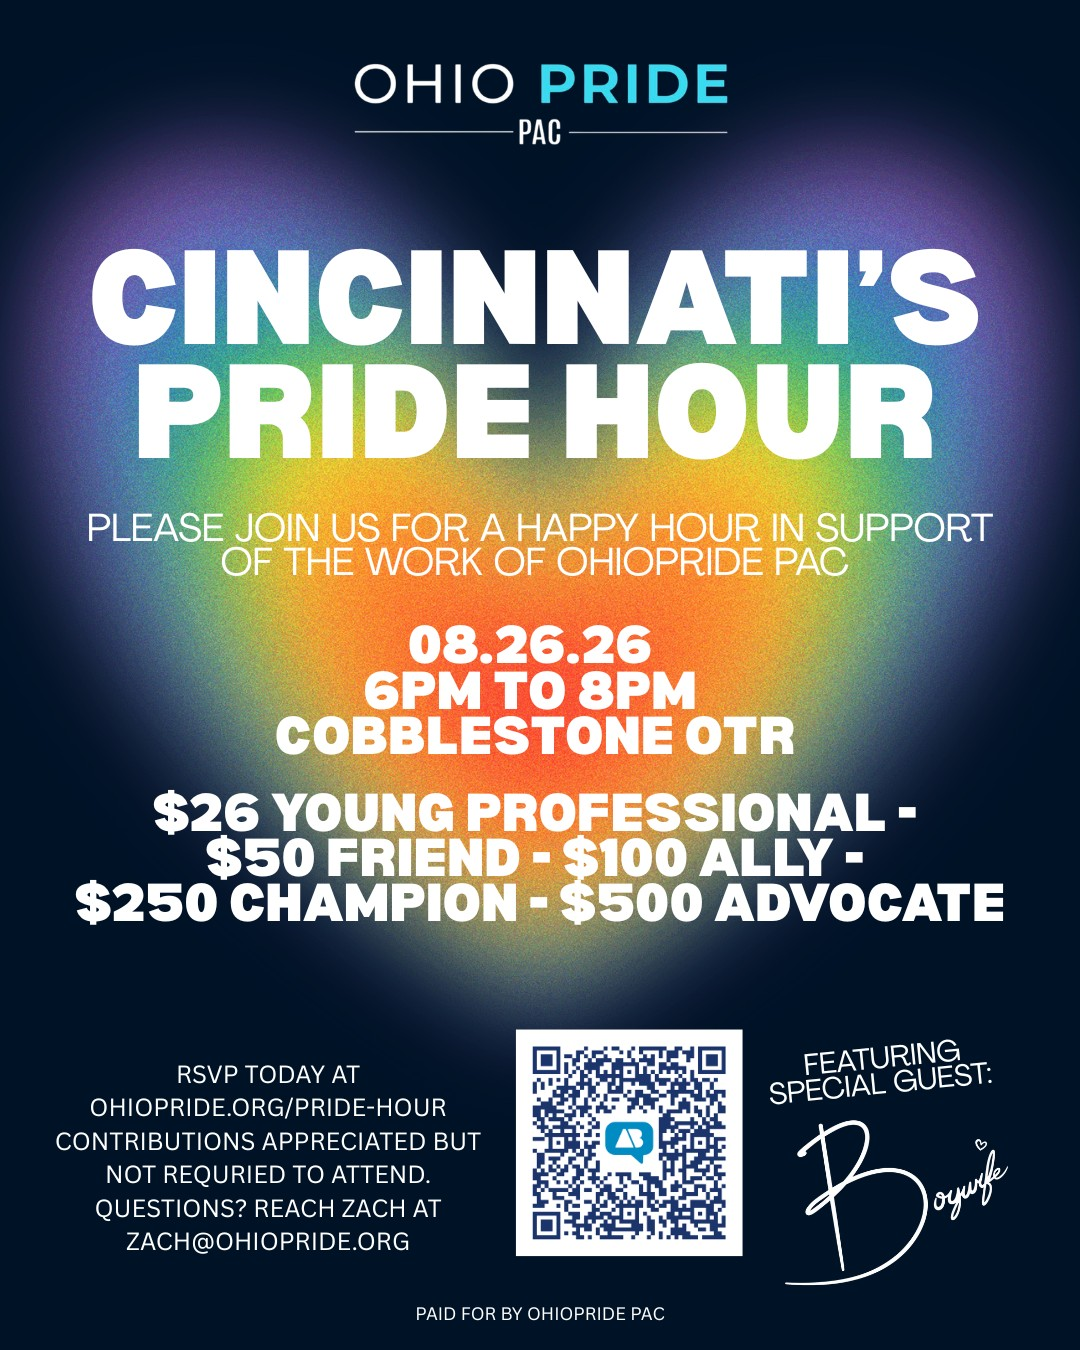
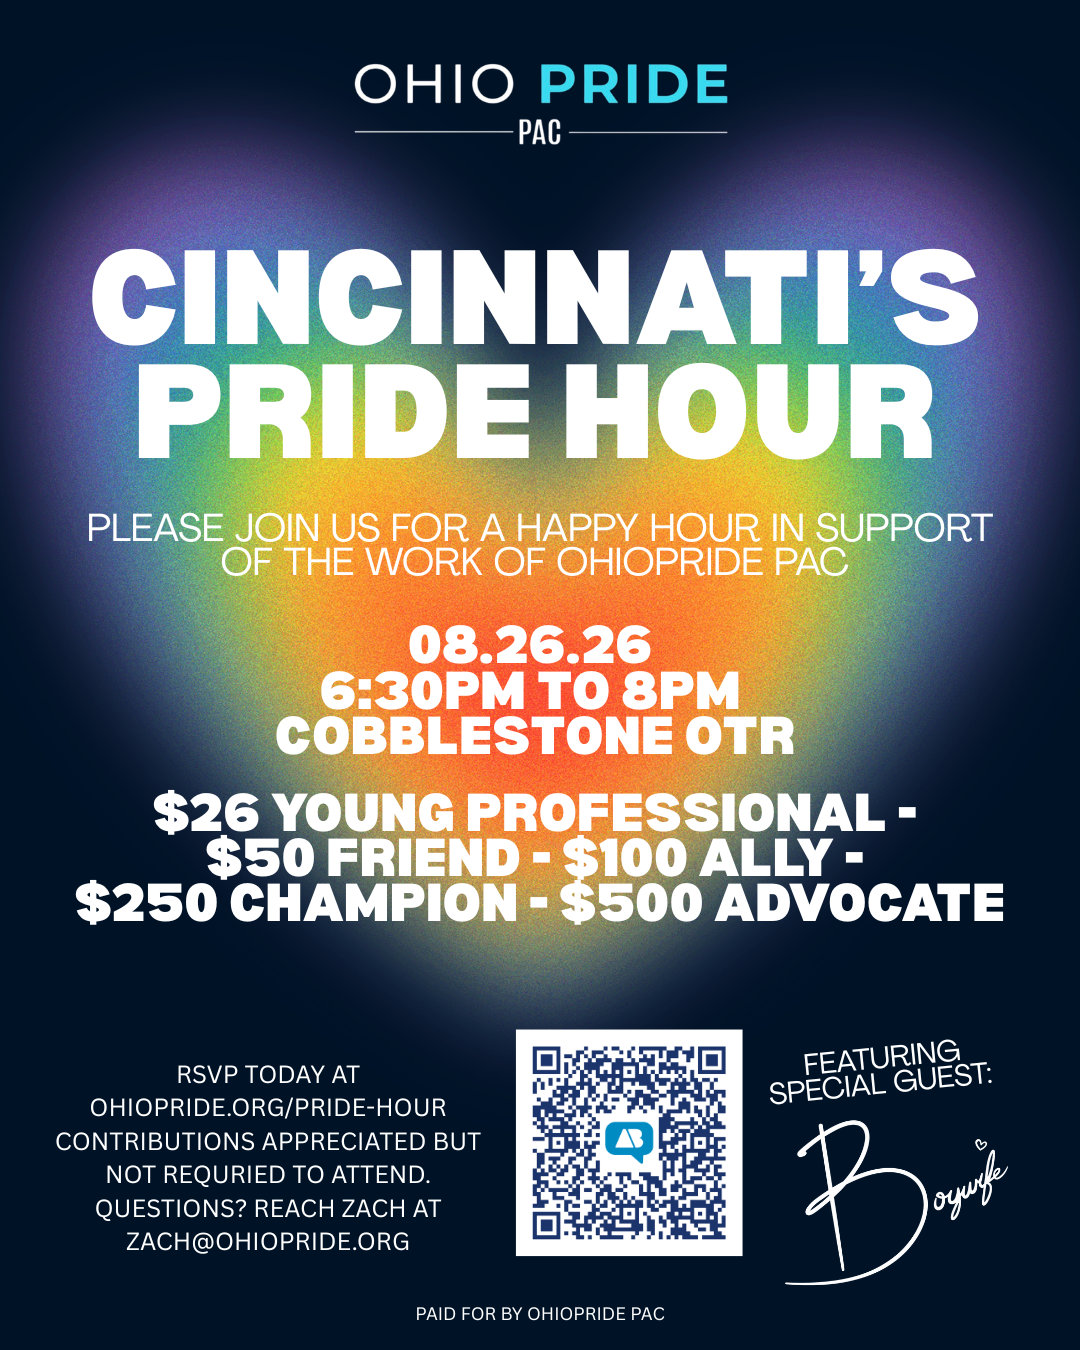
Cincinnati's Pride Hour starts at 6:30, and the flyer says so
The new invitation graphic moves the start from 6:00 to 6:30 PM. The
image is the only thing that changed on the flyer — everything else
(date, venue, giving levels, QR code, Boywife) is identical — but the
site said 6:00 in eight places, so the graphic and the copy around it
now disagreed.

Swapped the flyer and corrected the time everywhere it is stated:

- lib/seo.mjs is the source for the head block, so the description,
  og/twitter description, image alt and the Event JSON-LD startDate all
  move together; `npm run seo:build` rewrote /pride-hour's block.
- /pride-hour's hero note, figure alt, and the Time fact.
- /events' Cincinnati card (when line and alt).
- A migration for public.events: the 20260806240000 seed inserts with
  `on conflict do nothing` and cannot correct a row that already exists,
  so the new start time is stated as an update.

The end time (8:00 PM) and the Cleveland event are untouched.

Claude-Session: https://claude.ai/code/session_015j7yxkqiEpps74ZUqFgDEv

diff --git a/public/pride-hour.html b/public/pride-hour.html
@@ -6,7 +6,7 @@
 
     <!-- seo:start — generated by `npm run seo:build` from lib/seo.mjs. Do not edit. -->
     <title>Cincinnati's Pride Hour | Ohio Pride PAC</title>
-    <meta name="description" content="Join Ohio Pride PAC for a happy hour in support of our work. Wednesday, August 26, 2026, 6–8 PM at Cobblestone OTR in Cincinnati. RSVP today." />
+    <meta name="description" content="Join Ohio Pride PAC for a happy hour in support of our work. Wednesday, August 26, 2026, 6:30–8 PM at Cobblestone OTR in Cincinnati. RSVP today." />
     <link rel="canonical" href="https://www.ohiopride.org/pride-hour" />
     <meta name="robots" content="index, follow, max-image-preview:large, max-snippet:-1, max-video-preview:-1" />
     <meta name="theme-color" content="#152233" />
@@ -15,18 +15,18 @@
     <meta property="og:site_name" content="Ohio Pride PAC" />
     <meta property="og:locale" content="en_US" />
     <meta property="og:title" content="Cincinnati's Pride Hour | Ohio Pride PAC" />
-    <meta property="og:description" content="A happy hour in support of the work of Ohio Pride PAC. Wed, Aug 26, 2026 · 6–8 PM · Cobblestone OTR, Cincinnati. RSVP today." />
+    <meta property="og:description" content="A happy hour in support of the work of Ohio Pride PAC. Wed, Aug 26, 2026 · 6:30–8 PM · Cobblestone OTR, Cincinnati. RSVP today." />
     <meta property="og:url" content="https://www.ohiopride.org/pride-hour" />
     <meta property="og:image" content="https://www.ohiopride.org/assets/img/events/cincinnati-pride-hour.jpg" />
     <meta property="og:image:width" content="1200" />
     <meta property="og:image:height" content="630" />
-    <meta property="og:image:alt" content="Cincinnati's Pride Hour — a happy hour in support of Ohio Pride PAC, August 26, 2026 at Cobblestone OTR." />
+    <meta property="og:image:alt" content="Cincinnati's Pride Hour — a happy hour in support of Ohio Pride PAC, August 26, 2026, 6:30 to 8 PM at Cobblestone OTR." />
 
     <meta name="twitter:card" content="summary_large_image" />
     <meta name="twitter:title" content="Cincinnati's Pride Hour | Ohio Pride PAC" />
-    <meta name="twitter:description" content="A happy hour in support of the work of Ohio Pride PAC. Wed, Aug 26, 2026 · 6–8 PM · Cobblestone OTR, Cincinnati. RSVP today." />
+    <meta name="twitter:description" content="A happy hour in support of the work of Ohio Pride PAC. Wed, Aug 26, 2026 · 6:30–8 PM · Cobblestone OTR, Cincinnati. RSVP today." />
     <meta name="twitter:image" content="https://www.ohiopride.org/assets/img/events/cincinnati-pride-hour.jpg" />
-    <meta name="twitter:image:alt" content="Cincinnati's Pride Hour — a happy hour in support of Ohio Pride PAC, August 26, 2026 at Cobblestone OTR." />
+    <meta name="twitter:image:alt" content="Cincinnati's Pride Hour — a happy hour in support of Ohio Pride PAC, August 26, 2026, 6:30 to 8 PM at Cobblestone OTR." />
 
     <link rel="icon" href="/favicon.ico" sizes="any" />
     <link rel="icon" type="image/svg+xml" href="/assets/favicon/favicon.svg" />
@@ -39,11 +39,11 @@
       "@context": "https://schema.org",
       "@type": "Event",
       "name": "Cincinnati's Pride Hour",
-      "startDate": "2026-08-26T18:00:00-04:00",
+      "startDate": "2026-08-26T18:30:00-04:00",
       "endDate": "2026-08-26T20:00:00-04:00",
       "eventStatus": "https://schema.org/EventScheduled",
       "eventAttendanceMode": "https://schema.org/OfflineEventAttendanceMode",
-      "description": "Join Ohio Pride PAC for a happy hour in support of our work. Wednesday, August 26, 2026, 6–8 PM at Cobblestone OTR in Cincinnati. RSVP today.",
+      "description": "Join Ohio Pride PAC for a happy hour in support of our work. Wednesday, August 26, 2026, 6:30–8 PM at Cobblestone OTR in Cincinnati. RSVP today.",
       "url": "https://www.ohiopride.org/pride-hour",
       "image": "https://www.ohiopride.org/assets/img/events/cincinnati-pride-hour.jpg",
       "location": {
@@ -302,7 +302,7 @@
         <img class="feat-logo" src="/assets/img/events/boywife-logo.png" alt="DJ Boywife" width="1170" height="879">
     </div>
     <a class="btn-donate lg" href="https://secure.actblue.com/donate/26-Pride-hourcincy" target="_blank" rel="noopener">Donate &amp; RSVP &rarr;</a>
-    <p class="donate-note">Wednesday, August 26, 2026 &nbsp;·&nbsp; 6&ndash;8 PM &nbsp;·&nbsp; Cobblestone OTR</p>
+    <p class="donate-note">Wednesday, August 26, 2026 &nbsp;·&nbsp; 6:30&ndash;8 PM &nbsp;·&nbsp; Cobblestone OTR</p>
 </section>
 
 <!-- ===================== MAIN ===================== -->
@@ -312,7 +312,7 @@
             <!-- The invitation graphic -->
             <figure class="ph-figure">
                 <img src="/assets/img/events/cincinnati-pride-hour.jpg"
-                     alt="Cincinnati's Pride Hour — a happy hour in support of Ohio Pride PAC. August 26, 2026, 6 to 8 PM at Cobblestone OTR. Giving levels: $26 Young Professional, $50 Friend, $100 Ally, $250 Champion, $500 Advocate. Featuring special guest Boywife, with a QR code to RSVP.">
+                     alt="Cincinnati's Pride Hour — a happy hour in support of Ohio Pride PAC. August 26, 2026, 6:30 to 8 PM at Cobblestone OTR. Giving levels: $26 Young Professional, $50 Friend, $100 Ally, $250 Champion, $500 Advocate. Featuring special guest Boywife, with a QR code to RSVP.">
                 <figcaption>Paid for by Ohio Pride PAC</figcaption>
             </figure>
 
@@ -334,7 +334,7 @@
                         </span>
                         <div>
                             <div class="label">Time</div>
-                            <div class="value">6:00 &ndash; 8:00 PM</div>
+                            <div class="value">6:30 &ndash; 8:00 PM</div>
                         </div>
                     </div>
                     <div class="ph-fact">

diff --git a/public/events.html b/public/events.html
@@ -280,13 +280,13 @@
                   width="1080"
                   height="1350"
                   loading="lazy"
-                  alt="Cincinnati's Pride Hour, a happy hour in support of Ohio Pride PAC. Wednesday, August 26, 2026, 6:00 to 8:00 PM at Cobblestone OTR in Over-the-Rhine, Cincinnati. Giving levels: $26 Young Professional, $50 Friend, $100 Ally, $250 Champion, $500 Advocate."
+                  alt="Cincinnati's Pride Hour, a happy hour in support of Ohio Pride PAC. Wednesday, August 26, 2026, 6:30 to 8:00 PM at Cobblestone OTR in Over-the-Rhine, Cincinnati. Giving levels: $26 Young Professional, $50 Friend, $100 Ally, $250 Champion, $500 Advocate."
                 />
               </a>
               <div class="event-card-body">
                 <span class="event-card-city">Cincinnati</span>
                 <h2>Cincinnati's Pride Hour</h2>
-                <p class="event-card-when">Wednesday, August 26, 2026, 6:00 to 8:00 PM</p>
+                <p class="event-card-when">Wednesday, August 26, 2026, 6:30 to 8:00 PM</p>
                 <p class="event-card-where">Cobblestone OTR<br />Over-the-Rhine, Cincinnati</p>
                 <div class="event-card-actions">
                   <a class="btn btn-primary" href="/pride-hour">Details and RSVP</a>
